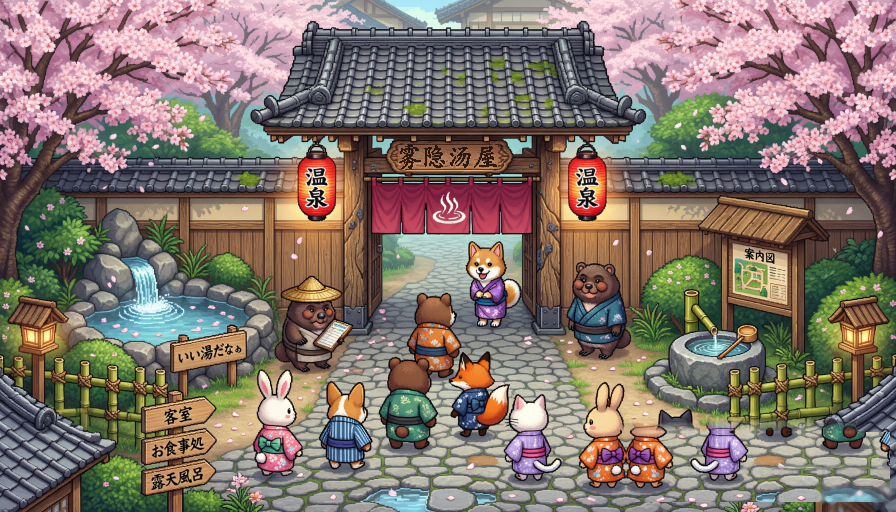
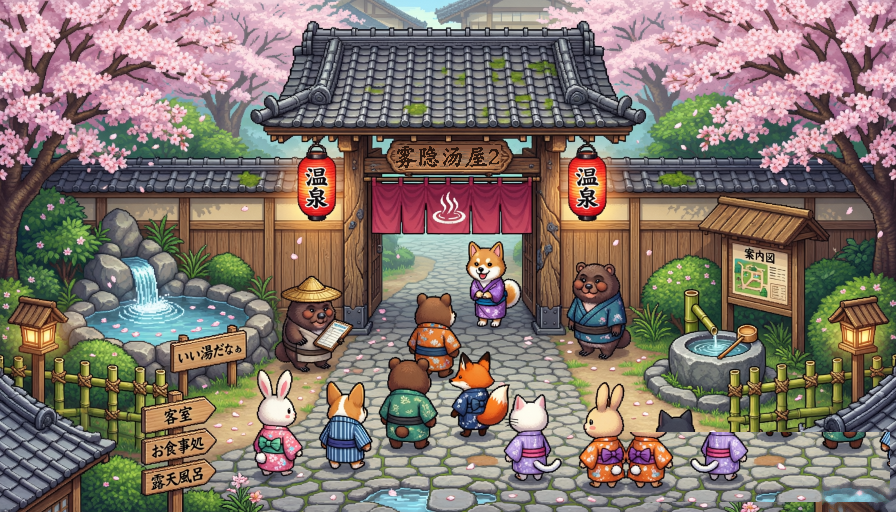
feat(art): 匾额改刻「雾隐汤屋2」，五字不裁切
原匾额四字在 100px 框 + SIZE=26 下跑通；改五字「雾隐汤屋2」后若沿用原参数会
左右裁掉首尾。字号降到 24（五字掩码 103px，与原四字 102px 同宽，保持既有密度），
BAND 微调为 (395,145,501,169) 仍以 448 为中心。已用 Godot headless 重新导入。

保留 godot/tools/_cache/title_plaque_src.png：retitle_plaque.py 的源图依赖，勿删。

Changed region(s): [[0.6875, 0.8125, 0.9688, 0.8438], [0.4375, 0.2812, 0.5625, 0.3438], [0.875, 0.9062, 1.0, 0.9375]]

diff --git a/godot/tools/retitle_plaque.py b/godot/tools/retitle_plaque.py
@@ -16,12 +16,15 @@ SRC = os.path.join(ROOT, "assets", "bg", "title.png")
 CACHE = os.path.join(ROOT, "tools", "_cache", "title_plaque_src.png")
 TEXT = "雾隐汤屋2"
 FONT = "C:/Windows/Fonts/STKAITI.TTF"
-SIZE = 26
+# 「雾隐汤屋2」是五个字，原 SIZE=26 + 100px 框（按四字设计）会左右裁掉首尾。
+# 降到 24 后五字掩码约 103px，与原四字 102px 同宽，落在略加宽的框内刚好不裁。
+SIZE = 24
 THRESHOLD = 25
 INK = (33, 17, 11)
 
 # 匾额内可涂改的矩形：左右避开雕花，上下避开边框暗部
-BAND = (398, 145, 498, 169)
+# （由 (398,145,498,169) 微调：中心仍 448，宽 100→106 以容五字）
+BAND = (395, 145, 501, 169)
 
 
 def lum(p):
